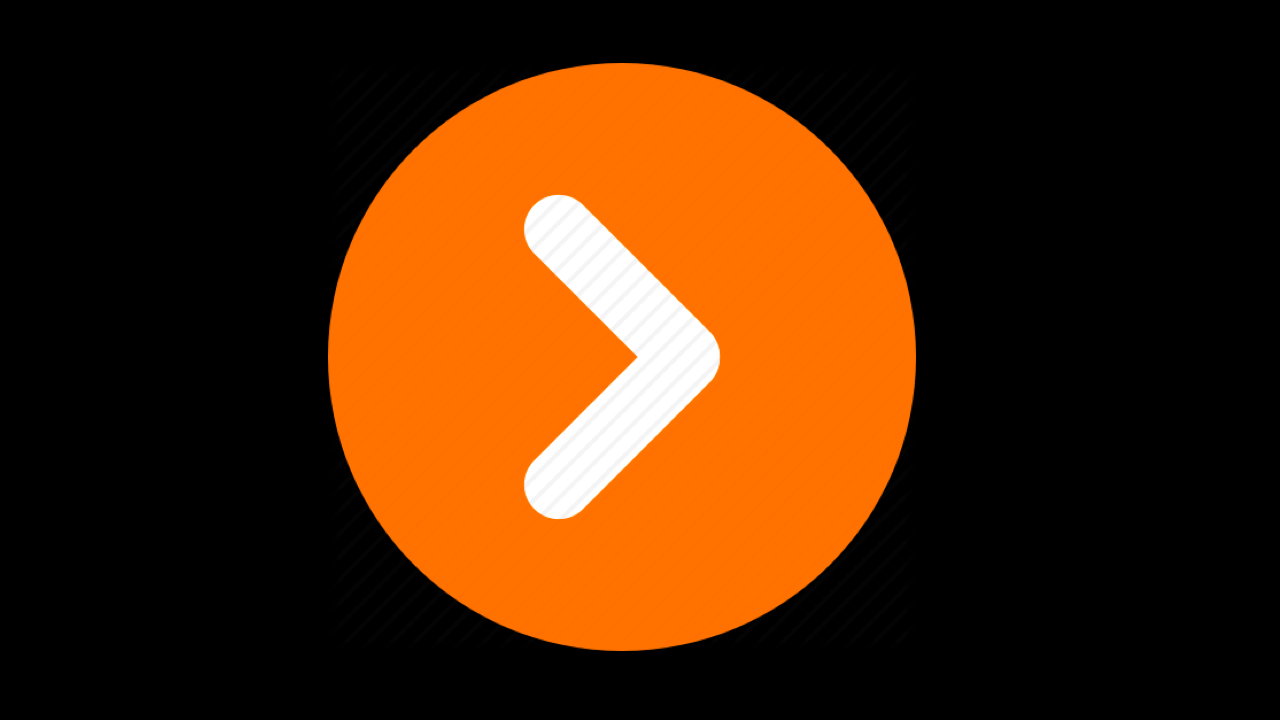
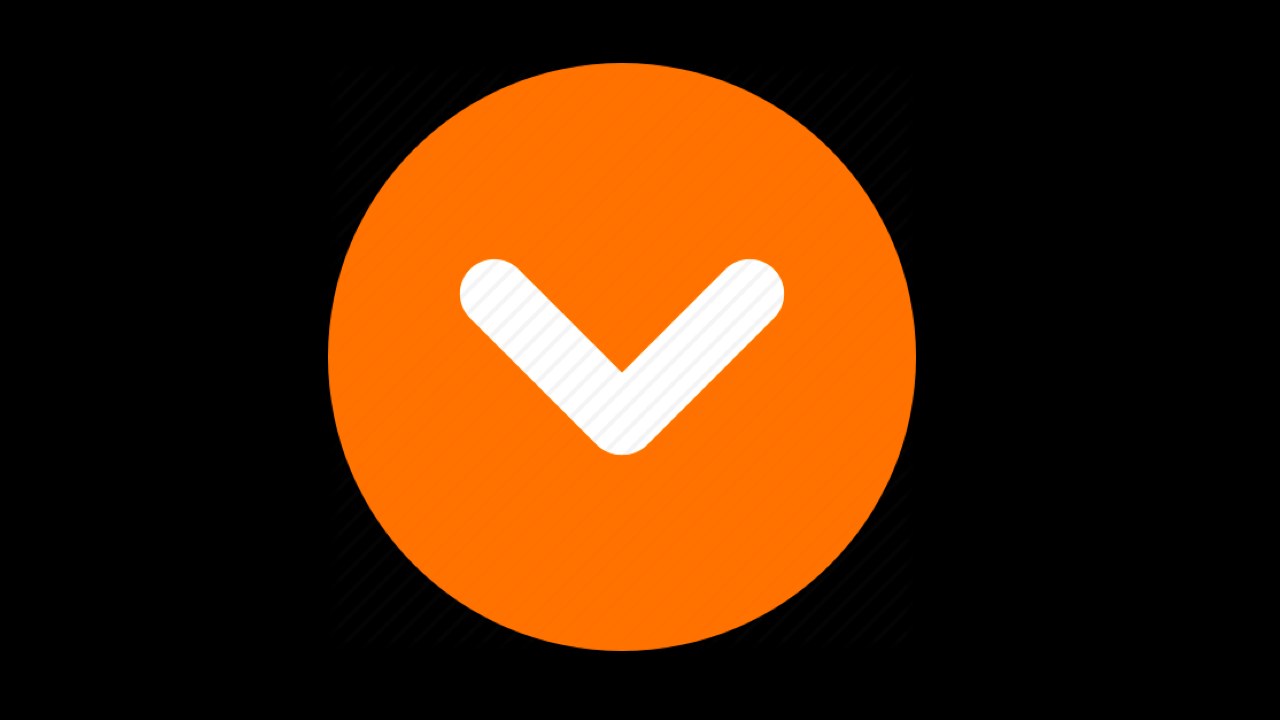
Change to determined image file

Changed region(s): [[0.3438, 0.275, 0.625, 0.7333]]

diff --git a/server_.py b/server_.py
@@ -38,7 +38,7 @@ ser = serial.Serial('/dev/ttyACM0',9600, timeout = 1)
 while 1:
   if(sock.recv(1)== '8'):
     os.system("python sms.py")
-    os.system("feh -F --auto-zoom img/5.jpeg &")
+    os.system("feh -F --auto-zoom img/4.png &")
 
   why=ser.read(1)
   if(why == '1'):
